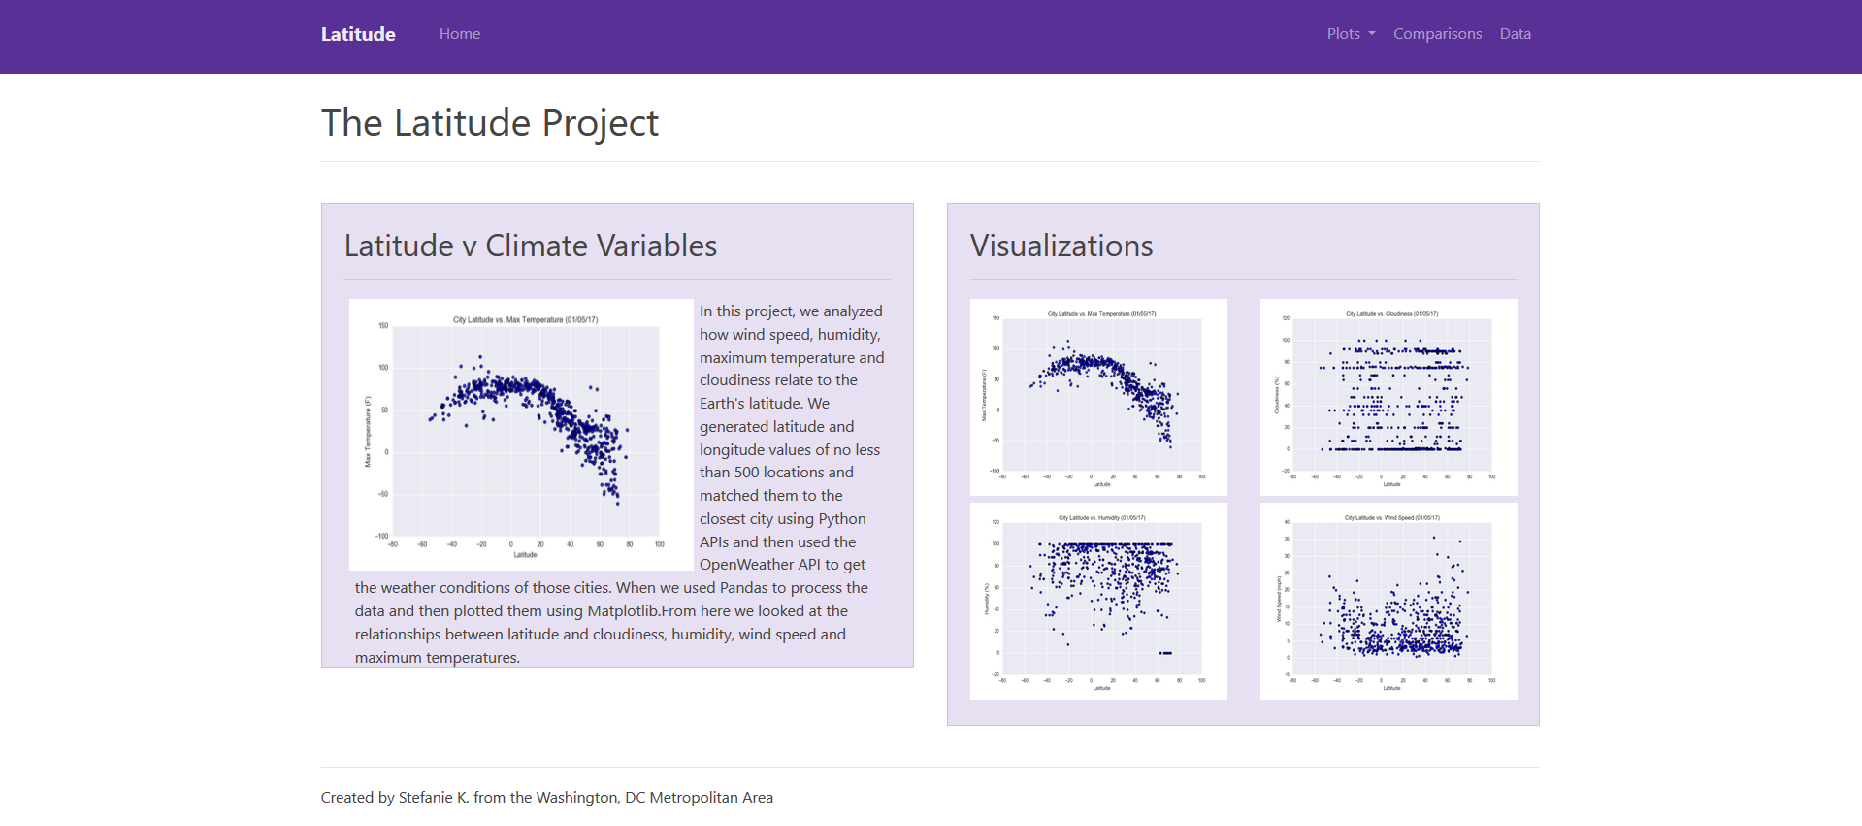
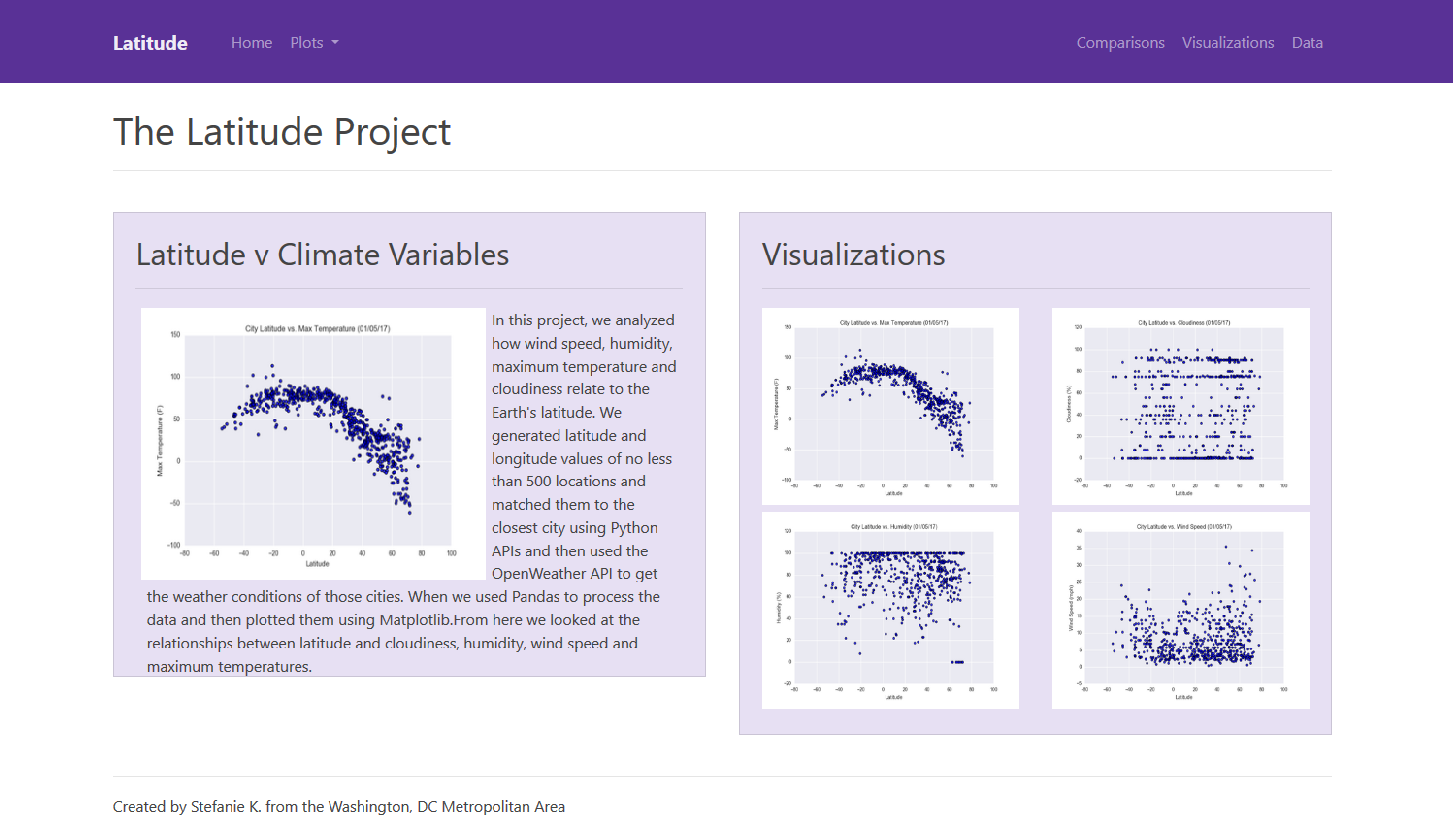
Updated navbar and updated image references

diff --git a/webapp/views/comparison.html b/webapp/views/comparison.html
@@ -23,9 +23,7 @@
       			<li class="nav-item">
         			<a class="nav-link" href="index.html">Home</a>
       			</li>
-    		</ul>
-    		<ul class="navbar-nav ml-auto">
-    			<li class="nav-item dropdown">
+      			<li class="nav-item dropdown">
         			<a id="plots" class="nav-link dropdown-toggle" data-toggle="dropdown" href="#" aria-expanded="false">Plots <span class="caret"></span></a>
       				<div class="dropdown-menu">
       					<a class="dropdown-item" href="#">Maximum Temperature</a>
@@ -34,8 +32,13 @@
       					<a class="dropdown-item" href="#">Wind Speed</a>
       				</div>
       			</li>
+    		</ul>
+    		<ul class="navbar-nav ml-auto">
       			<li class="nav-item">
         			<a class="nav-link" href="comparison.html">Comparisons</a>
+      			</li>
+      			<li class="nav-item">
+        			<a class="nav-link" href="visualization.html">Visualizations</a>
       			</li>
       			<li class="nav-item">
         			<a class="nav-link" href="data.html">Data</a>
@@ -56,34 +59,53 @@
 	</div>
 </div>
 
-<!-- Page content - Introduction -->
+<!-- Page content - Comparison -->
 <div id="comparison" class="container">
-	<div class="col-sm-6">
-    	<div class="card">
-      		<div class="card-body">
-        		<h2 class="card-title">Visualizations</h2>
-        		<hr>
-        		<div class="row">
-        			<div class="col-sm-6">
-        				<img id="visual-image-one" src="../static/images/max_temp.png" alt="Latitude v Max Temps">
-        			</div>
-        			<div class="col-sm-6">
-        					<img id="visual-image-two" src="../static/images/cloudiness.png" alt="Latitude v Cloudiness">
-        			</div>
-        		</div>
-        		<div class="row">
-        			<div class="col-sm-6">
-        				<img id="visual-image-three" src="../static/images/humidity.png" alt="Latitude v Humidity">
-        			</div>
-        			<div class="col-sm-6">
-        				<img id="visual-image-four" src="../static/images/wind_speed.png" alt="Latitude v Wind Speed">
-        			</div>
-        		</div>
-      		</div>
-      	</div>
-	</div>
+	<div class="row">
+  		<div class="col">
+    		<div class="card">
+      			<div class="card-body">
+        			<h2 class="card-title">Latitude v Max Temp</h2>
+        			<hr>
+        			<img id="compare-image-one" class="img-fluid" src="../static/images/max_temp.png" alt="Latitude v Max Temps">
+      			</div>
+    		</div>
+  		</div>
+  		</br>
+  		<div class="col">
+    		<div class="card">
+      			<div class="card-body">
+        			<h2 class="card-title">Latitude v Humidity</h2>
+        			<hr>
+        			<img id="compare-image-two" class="img-fluid" src="../static/images/humidity.png" alt="Latitude v Humidity">
+      			</div>
+    		</div>
+  		</div>
+  	</div>
+  	</br>
+  	<div class="row">
+  		<div class="col">
+    		<div class="card">
+      			<div class="card-body">
+        			<h2 class="card-title">Latitude v Cloudiness</h2>
+        			<hr>
+        			<img id="compare-image-three" class="img-fluid" src="../static/images/cloudiness.png" alt="Latitude v Cloudiness">
+      			</div>
+    		</div>
+  		</div>
+  		</br>
+  		<div class="col">
+    		<div class="card">
+      			<div class="card-body">
+        			<h2 class="card-title">Latitude v Wind Speed</h2>
+        			<hr>
+        			<img id="compare-image-four" class="img-fluid" src="../static/images/wind_speed.png" alt="Latitude v Wind Speed">
+      			</div>
+    		</div>
+  		</div>
+  	</div>
 </div>
-
+	
 <!-- Footer -->
 <footer id="footer">
 	</br>

diff --git a/webapp/views/index.html b/webapp/views/index.html
@@ -23,9 +23,7 @@
       			<li class="nav-item">
         			<a class="nav-link" href="index.html">Home</a>
       			</li>
-    		</ul>
-    		<ul class="navbar-nav ml-auto">
-    			<li class="nav-item dropdown">
+      			<li class="nav-item dropdown">
         			<a id="plots" class="nav-link dropdown-toggle" data-toggle="dropdown" href="#" aria-expanded="false">Plots <span class="caret"></span></a>
       				<div class="dropdown-menu">
       					<a class="dropdown-item" href="#">Maximum Temperature</a>
@@ -34,8 +32,13 @@
       					<a class="dropdown-item" href="#">Wind Speed</a>
       				</div>
       			</li>
+    		</ul>
+    		<ul class="navbar-nav ml-auto">
       			<li class="nav-item">
         			<a class="nav-link" href="comparison.html">Comparisons</a>
+      			</li>
+      			<li class="nav-item">
+        			<a class="nav-link" href="visualization.html">Visualizations</a>
       			</li>
       			<li class="nav-item">
         			<a class="nav-link" href="data.html">Data</a>
@@ -63,7 +66,7 @@
       			<div class="card-body">
         			<h2 class="card-title">Latitude v Climate Variables</h2>
         			<hr>
-        			<img id="intro-image" src="../static/images/max_temp.png" alt="Latitude v Max Temps">
+        			<img id="intro-image" class="img-fluid" src="../static/images/max_temp.png" alt="Latitude v Max Temps">
         			<p id="intro-text" class="card-text">In this project, we analyzed how wind speed, humidity, maximum temperature and cloudiness
         			relate to the Earth's latitude. We generated latitude and longitude values of no less than 500 locations and matched them to the closest city using Python APIs
         			and then used the OpenWeather API to get the weather conditions of those cities. When we used Pandas to process the data and then plotted them using Matplotlib.From here we looked at the relationships
@@ -78,18 +81,18 @@
         			<hr>
         			<div class="row">
         				<div class="col-sm-6">
-        					<img id="visual-image-one" src="../static/images/max_temp.png" alt="Latitude v Max Temps">
+        					<img id="visual-image-one" class="img-fluid" src="../static/images/max_temp.png" alt="Latitude v Max Temps">
         				</div>
         				<div class="col-sm-6">
-        					<img id="visual-image-two" src="../static/images/cloudiness.png" alt="Latitude v Cloudiness">
+        					<img id="visual-image-two" class="img-fluid" src="../static/images/cloudiness.png" alt="Latitude v Cloudiness">
         				</div>
         			</div>
         			<div class="row">
         				<div class="col-sm-6">
-        					<img id="visual-image-three" src="../static/images/humidity.png" alt="Latitude v Humidity">
+        					<img id="visual-image-three" class="img-fluid" src="../static/images/humidity.png" alt="Latitude v Humidity">
         				</div>
         				<div class="col-sm-6">
-        					<img id="visual-image-four" src="../static/images/wind_speed.png" alt="Latitude v Wind Speed">
+        					<img id="visual-image-four" class="img-fluid" src="../static/images/wind_speed.png" alt="Latitude v Wind Speed">
         				</div>
         			</div>
       			</div>

diff --git a/webapp/views/visualization.html b/webapp/views/visualization.html
@@ -23,9 +23,7 @@
       			<li class="nav-item">
         			<a class="nav-link" href="index.html">Home</a>
       			</li>
-    		</ul>
-    		<ul class="navbar-nav ml-auto">
-    			<li class="nav-item dropdown">
+      			<li class="nav-item dropdown">
         			<a id="plots" class="nav-link dropdown-toggle" data-toggle="dropdown" href="#" aria-expanded="false">Plots <span class="caret"></span></a>
       				<div class="dropdown-menu">
       					<a class="dropdown-item" href="#">Maximum Temperature</a>
@@ -34,8 +32,13 @@
       					<a class="dropdown-item" href="#">Wind Speed</a>
       				</div>
       			</li>
+    		</ul>
+    		<ul class="navbar-nav ml-auto">
       			<li class="nav-item">
-        			<a class="nav-link" href="comparison.html">Comparison</a>
+        			<a class="nav-link" href="comparison.html">Comparisons</a>
+      			</li>
+      			<li class="nav-item">
+        			<a class="nav-link" href="visualization.html">Visualizations</a>
       			</li>
       			<li class="nav-item">
         			<a class="nav-link" href="data.html">Data</a>

diff --git a/webapp/views/data.html b/webapp/views/data.html
@@ -23,9 +23,7 @@
       			<li class="nav-item">
         			<a class="nav-link" href="index.html">Home</a>
       			</li>
-    		</ul>
-    		<ul class="navbar-nav ml-auto">
-    			<li class="nav-item dropdown">
+      			<li class="nav-item dropdown">
         			<a id="plots" class="nav-link dropdown-toggle" data-toggle="dropdown" href="#" aria-expanded="false">Plots <span class="caret"></span></a>
       				<div class="dropdown-menu">
       					<a class="dropdown-item" href="#">Maximum Temperature</a>
@@ -34,8 +32,13 @@
       					<a class="dropdown-item" href="#">Wind Speed</a>
       				</div>
       			</li>
+    		</ul>
+    		<ul class="navbar-nav ml-auto">
       			<li class="nav-item">
         			<a class="nav-link" href="comparison.html">Comparisons</a>
+      			</li>
+      			<li class="nav-item">
+        			<a class="nav-link" href="visualization.html">Visualizations</a>
       			</li>
       			<li class="nav-item">
         			<a class="nav-link" href="data.html">Data</a>

diff --git a/webapp/static/css/style.css b/webapp/static/css/style.css
@@ -16,6 +16,16 @@
 	word-wrap: break-word;
 }
 
+/* DATA PAGE*/
+/* None */
+
+/* COMPARISONS PAGE */
+/* Cards */
+#compare-image-one, #compare-image-two, #compare-image-three, #compare-image-four {
+	height: 80%;
+	width: 100%;
+	padding-bottom: 5%;
+}
 /* Visualizations Card */
 #visual-image-one, #visual-image-two, #visual-image-three, #visual-image-four {
 	height: 110%;
@@ -30,9 +40,5 @@
 	padding-bottom: 21px;
 }
 
-/* DATA PAGE*/
-/* None */
-
 /* VISUALIZATIONS PAGE */
 
-/* COMPARISONS PAGE */
